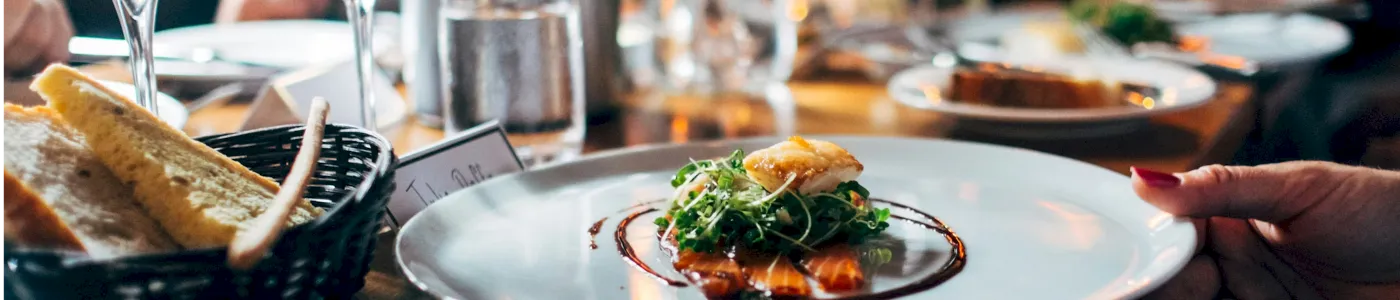
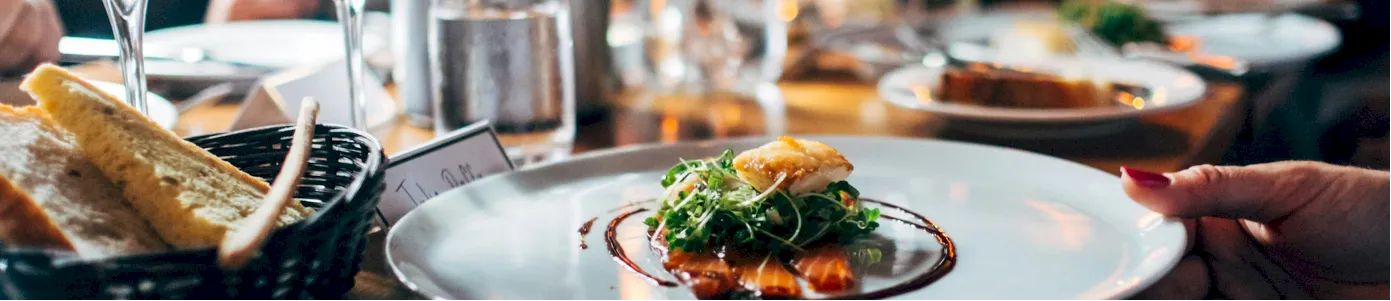
modified:   _vite.out 	new file:   public/images/RealEstateHeader.webp 	modified:   public/images/RestaurantHeader.webp 	modified:   src/Directory/pages/DirectoryDetail.jsx

diff --git a/src/Directory/pages/DirectoryDetail.jsx b/src/Directory/pages/DirectoryDetail.jsx
@@ -246,6 +246,7 @@ const DirectoryDetail = function () {
         'universities':              '/images/UniversityHeader.webp',
         'service-providers':         '/images/ServiceProviderHeader.webp',
         'meat-wholesalers':          '/images/MeatWholesalerHeader.webp',
+        'real-estate-agents':        '/images/RealEstateHeader.webp',
     };
 
     const CATEGORY_TEXT = {
